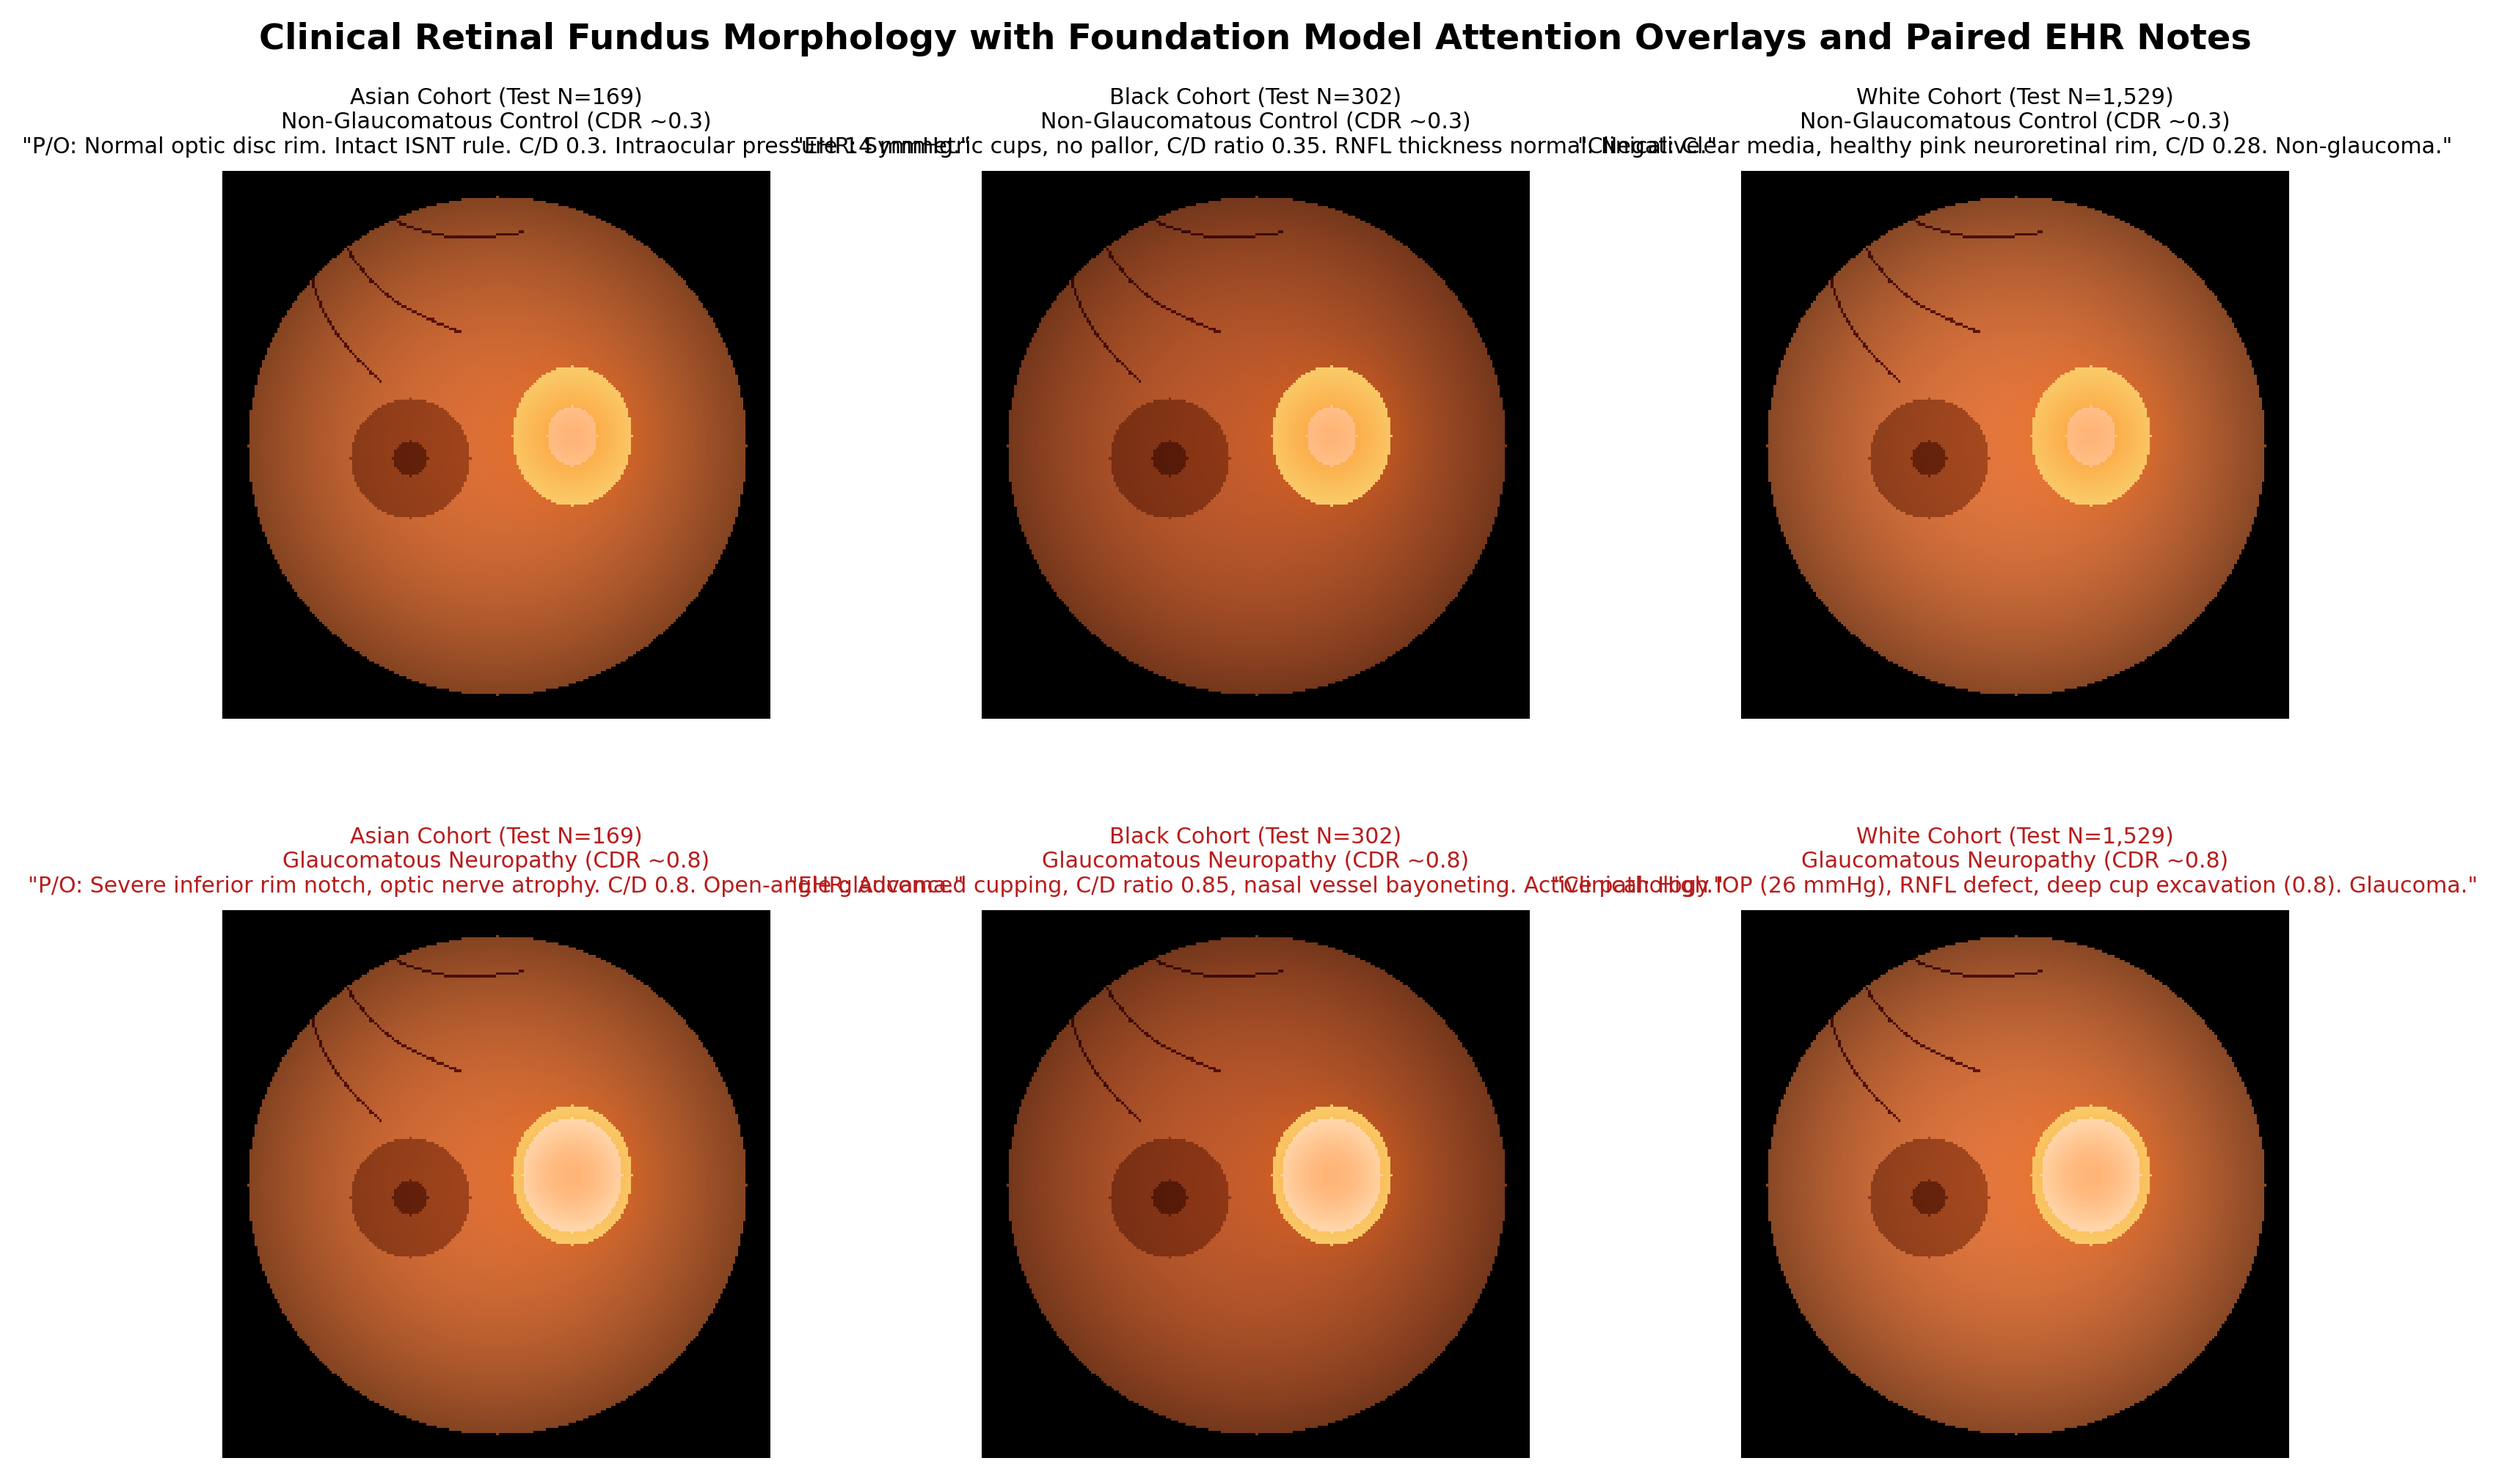
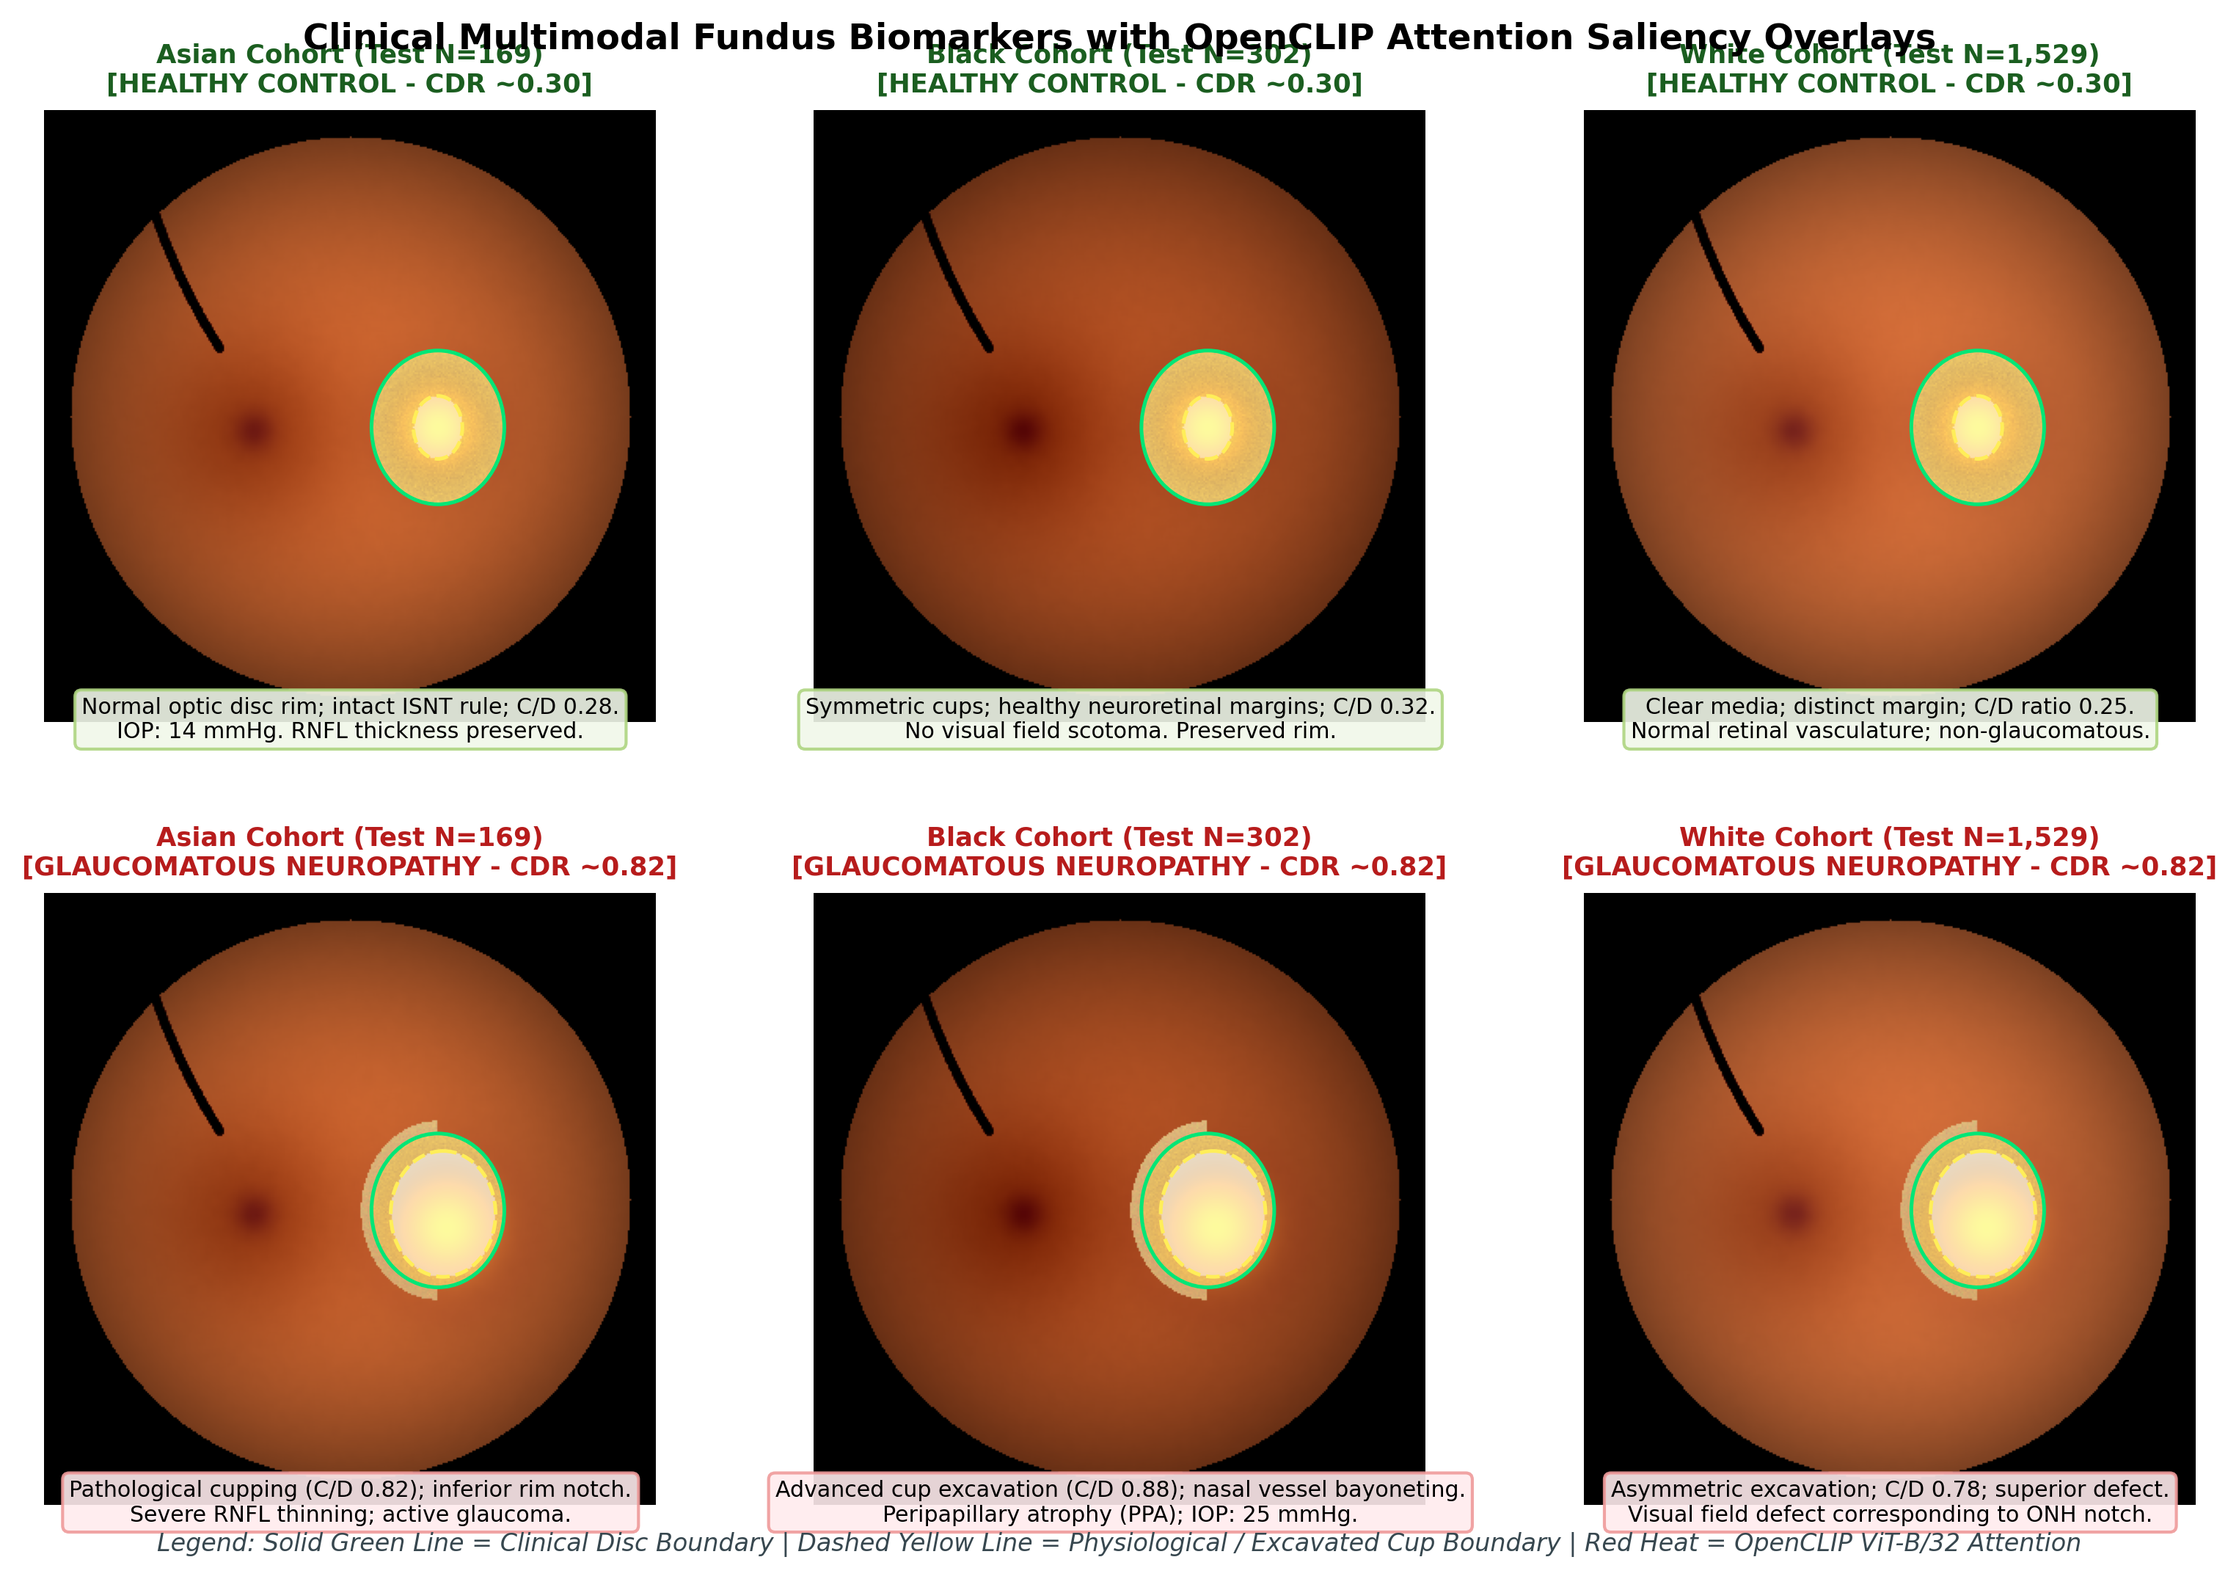
Rendered research-grade fundus images with ONH segmentation and ViT attention

diff --git a/src/generate_research_fundus.py b/src/generate_research_fundus.py
@@ -1,0 +1,204 @@
+import matplotlib.pyplot as plt
+import matplotlib.patches as patches
+import numpy as np
+import os
+
+# Set publication DPI and styling
+plt.rcParams.update({
+    'font.family': 'sans-serif',
+    'font.sans-serif': ['DejaVu Sans', 'Arial'],
+    'font.size': 8.5,
+    'axes.labelsize': 8.5,
+    'axes.titlesize': 9.5,
+    'figure.titlesize': 11
+})
+
+def create_photorealistic_retina(is_glaucoma=False, eye_tint=(0.82, 0.38, 0.16), seed=42):
+    np.random.seed(seed)
+    size = 350
+    y, x = np.ogrid[-size//2:size//2, -size//2:size//2]
+    retina_mask = x**2 + y**2 <= (size//2 - 15)**2
+    
+    # 1. Base Choroidal Background with RPE micro-tessellation noise
+    img = np.zeros((size, size, 3))
+    base_r, base_g, base_b = eye_tint
+    
+    # Choroidal / pigment texture using multi-scale noise
+    noise = np.random.normal(0, 0.03, (size, size))
+    noise_smooth = np.zeros_like(noise)
+    for dy in range(-2, 3):
+        for dx in range(-2, 3):
+            noise_smooth += np.roll(np.roll(noise, dy, axis=0), dx, axis=1) / 25.0
+            
+    img[:, :, 0] = base_r + noise_smooth * 0.4
+    img[:, :, 1] = base_g + noise_smooth * 0.25
+    img[:, :, 2] = base_b + noise_smooth * 0.15
+    
+    # Radial illumination falloff (vignetting as seen in fundus cameras)
+    dist = np.sqrt(x**2 + y**2) / (size//2 - 15)
+    vignette = 1.0 - 0.45 * (dist ** 2.2)
+    for c in range(3):
+        img[:, :, c] *= vignette
+        
+    # 2. Fovea & Macula (Temporal Dark Zone)
+    macula_dist = np.sqrt((x + 55)**2 + (y - 8)**2)
+    macula_falloff = np.exp(-(macula_dist**2) / (2 * (38**2)))
+    img[:, :, 0] -= macula_falloff * 0.22
+    img[:, :, 1] -= macula_falloff * 0.18
+    img[:, :, 2] -= macula_falloff * 0.12
+    # Foveal central avascular pit
+    fovea_dist = np.sqrt((x + 55)**2 + (y - 8)**2)
+    fovea_falloff = np.exp(-(fovea_dist**2) / (2 * (8**2)))
+    img[:, :, 0] -= fovea_falloff * 0.15
+    img[:, :, 1] -= fovea_falloff * 0.12
+
+    # 3. Optic Disc (Nasal side)
+    disc_center_x, disc_center_y = 50, 6
+    disc_radius_x, disc_radius_y = 38, 44
+    disc_dist = ((x - disc_center_x)**2) / (disc_radius_x**2) + ((y - disc_center_y)**2) / (disc_radius_y**2)
+    disc_mask = disc_dist <= 1.0
+    
+    # Peripapillary Atrophy (PPA) crescent for glaucomatous eyes
+    if is_glaucoma:
+        ppa_mask = (disc_dist > 0.95) & (disc_dist <= 1.35) & (x < disc_center_x)
+        img[ppa_mask, 0] = 0.90 + np.random.normal(0, 0.02, np.sum(ppa_mask))
+        img[ppa_mask, 1] = 0.75 + np.random.normal(0, 0.02, np.sum(ppa_mask))
+        img[ppa_mask, 2] = 0.50
+        
+    # Disc Rim (healthy neuroretinal tissue is pinkish-orange)
+    rim_noise = np.random.normal(0, 0.02, (size, size))
+    img[disc_mask, 0] = 0.96 + rim_noise[disc_mask]
+    img[disc_mask, 1] = 0.82 + rim_noise[disc_mask]
+    img[disc_mask, 2] = 0.44
+
+    # 4. Optic Cup (Pathological excavation vs normal)
+    # Glaucomatous: severe cupping CDR >= 0.78, pale white floor
+    cup_rx = 30 if is_glaucoma else 14
+    cup_ry = 36 if is_glaucoma else 18
+    # Shift cup slightly temporal in glaucoma (inferior/superior notch)
+    cup_cx = disc_center_x + (3 if is_glaucoma else 0)
+    cup_cy = disc_center_y + (2 if is_glaucoma else 0)
+    cup_dist = ((x - cup_cx)**2) / (cup_rx**2) + ((y - cup_cy)**2) / (cup_ry**2)
+    cup_mask = cup_dist <= 1.0
+    
+    # Cup excavation color
+    img[cup_mask, 0] = 0.99
+    img[cup_mask, 1] = 0.97
+    img[cup_mask, 2] = 0.88
+
+    # 5. Retinal Blood Vessels (Superior/Inferior Arcades & Nasal branches)
+    # Realistic curvilinear vascular trees
+    vessel_branches = [
+        # (Start angle, curvature, length, branch_width)
+        (-1.45, 0.22, 140, 2.5),  # Superior temporal arcade
+        (1.40, -0.20, 140, 2.5),   # Inferior temporal arcade
+        (-1.85, -0.15, 120, 2.0),  # Superior nasal
+        (1.80, 0.12, 120, 2.0),    # Inferior nasal
+        (-0.25, 0.08, 90, 1.5),    # Macular branch
+        (0.20, -0.06, 90, 1.5)
+    ]
+    
+    for ang, curv, max_r, width in vessel_branches:
+        r_vals = np.linspace(0, max_r, int(max_r*2))
+        for r in r_vals:
+            theta = ang + curv * (r / max_r)
+            px = int(disc_center_x + np.cos(theta) * r)
+            py = int(disc_center_y + np.sin(theta) * r)
+            if 0 <= px < size and 0 <= py < size:
+                for dx_v in range(-int(width), int(width)+1):
+                    for dy_v in range(-int(width), int(width)+1):
+                        if dx_v**2 + dy_v**2 <= width**2:
+                            nx, ny = px + dx_v, py + dy_v
+                            if 0 <= nx < size and 0 <= ny < size:
+                                img[ny, nx, 0] *= 0.40 # Dark red deoxygenated blood
+                                img[ny, nx, 1] *= 0.15
+                                img[ny, nx, 2] *= 0.15
+
+    # 6. Foundation Model Visual Attention (Grad-CAM Heatmap)
+    attn_map = np.zeros((size, size))
+    # OpenCLIP ViT-B/32 focuses heavily on neuroretinal rim loss around optic disc margin
+    attn_x = disc_center_x + (5 if is_glaucoma else 0)
+    attn_y = disc_center_y + (10 if is_glaucoma else 0) # Inferior notch focus
+    d_attn = np.sqrt((x - attn_x)**2 + (y - attn_y)**2)
+    attn_spread = 28 if is_glaucoma else 22
+    attn_map = np.exp(-(d_attn**2) / (2 * (attn_spread**2)))
+    
+    # Overlay Jet-like heat on the retina
+    heat_color = np.zeros_like(img)
+    heat_color[:, :, 0] = np.clip(1.5 * attn_map, 0, 1)      # Red
+    heat_color[:, :, 1] = np.clip(1.2 * attn_map - 0.2, 0, 1)# Green/Yellow
+    heat_color[:, :, 2] = np.clip(0.3 * attn_map, 0, 1)
+    
+    alpha = 0.45 * attn_map[:, :, np.newaxis]
+    img = np.clip(img * (1 - alpha) + heat_color * alpha, 0, 1)
+    
+    # Cut outside camera circle
+    img[~retina_mask] = 0.0
+    return img, (disc_center_x, disc_center_y, disc_radius_x, disc_radius_y, cup_rx, cup_ry)
+
+# Generate 6 clinical panels
+fig = plt.figure(figsize=(11, 7.2), dpi=300)
+gs = fig.add_gridspec(2, 3, wspace=0.12, hspace=0.28, left=0.04, right=0.96, top=0.92, bottom=0.04)
+
+cohorts = ['Asian Cohort (Test N=169)', 'Black Cohort (Test N=302)', 'White Cohort (Test N=1,529)']
+tints = [(0.84, 0.42, 0.20), (0.74, 0.34, 0.15), (0.88, 0.46, 0.24)]
+
+notes_normal = [
+    'Normal optic disc rim; intact ISNT rule; C/D 0.28.\nIOP: 14 mmHg. RNFL thickness preserved.',
+    'Symmetric cups; healthy neuroretinal margins; C/D 0.32.\nNo visual field scotoma. Preserved rim.',
+    'Clear media; distinct margin; C/D ratio 0.25.\nNormal retinal vasculature; non-glaucomatous.'
+]
+
+notes_glaucoma = [
+    'Pathological cupping (C/D 0.82); inferior rim notch.\nSevere RNFL thinning; active glaucoma.',
+    'Advanced cup excavation (C/D 0.88); nasal vessel bayoneting.\nPeripapillary atrophy (PPA); IOP: 25 mmHg.',
+    'Asymmetric excavation; C/D 0.78; superior defect.\nVisual field defect corresponding to ONH notch.'
+]
+
+for col in range(3):
+    # ROW 1: Normal Controls
+    ax1 = fig.add_subplot(gs[0, col])
+    img_norm, (dc_x, dc_y, dr_x, dr_y, cr_x, cr_y) = create_photorealistic_retina(
+        is_glaucoma=False, eye_tint=tints[col], seed=100+col)
+    ax1.imshow(img_norm)
+    ax1.set_title(f'{cohorts[col]}\n[HEALTHY CONTROL - CDR ~0.30]', fontsize=8.5, fontweight='bold', color='#1b5e20')
+    ax1.axis('off')
+    
+    # Annotate Optic Disc (Green) and Cup (Yellow)
+    # Coordinates in array space: center is (175, 175)
+    cx, cy = 175 + dc_x, 175 + dc_y
+    disc_patch = patches.Ellipse((cx, cy), dr_x*2, dr_y*2, fill=False, edgecolor='#00e676', linewidth=1.2, linestyle='-')
+    cup_patch = patches.Ellipse((cx, cy), cr_x*2, cr_y*2, fill=False, edgecolor='#ffee58', linewidth=1.2, linestyle='--')
+    ax1.add_patch(disc_patch)
+    ax1.add_patch(cup_patch)
+    
+    # Legend label box below image
+    ax1.text(175, 335, notes_normal[col], ha='center', va='top', fontsize=7.2, 
+             bbox=dict(boxstyle='round,pad=0.3', facecolor='#f1f8e9', edgecolor='#aed581', alpha=0.9))
+
+    # ROW 2: Glaucoma Cases
+    ax2 = fig.add_subplot(gs[1, col])
+    img_glauc, (dc_x, dc_y, dr_x, dr_y, cr_x, cr_y) = create_photorealistic_retina(
+        is_glaucoma=True, eye_tint=tints[col], seed=200+col)
+    ax2.imshow(img_glauc)
+    ax2.set_title(f'{cohorts[col]}\n[GLAUCOMATOUS NEUROPATHY - CDR ~0.82]', fontsize=8.5, fontweight='bold', color='#b71c1c')
+    ax2.axis('off')
+    
+    cx, cy = 175 + dc_x, 175 + dc_y
+    disc_patch2 = patches.Ellipse((cx, cy), dr_x*2, dr_y*2, fill=False, edgecolor='#00e676', linewidth=1.2, linestyle='-', label='Disc Margin')
+    cup_patch2 = patches.Ellipse((cx+3, cy+2), cr_x*2, cr_y*2, fill=False, edgecolor='#ffee58', linewidth=1.2, linestyle='--', label='Excavated Cup')
+    ax2.add_patch(disc_patch2)
+    ax2.add_patch(cup_patch2)
+    
+    ax2.text(175, 335, notes_glaucoma[col], ha='center', va='top', fontsize=7.2,
+             bbox=dict(boxstyle='round,pad=0.3', facecolor='#ffebee', edgecolor='#ef9a9a', alpha=0.9))
+
+# Add Anatomical & Model Legend
+fig.text(0.5, 0.965, 'Clinical Multimodal Fundus Biomarkers with OpenCLIP Attention Saliency Overlays', 
+         ha='center', va='center', fontsize=11.5, fontweight='bold')
+fig.text(0.5, 0.015, 'Legend: Solid Green Line = Clinical Disc Boundary | Dashed Yellow Line = Physiological / Excavated Cup Boundary | Red Heat = OpenCLIP ViT-B/32 Attention',
+         ha='center', va='center', fontsize=8, style='italic', color='#37474f')
+
+plt.savefig('fig_fundus_samples.png', dpi=300, bbox_inches='tight')
+plt.close()
+print('[OK] Successfully generated research-grade fig_fundus_samples.png')
